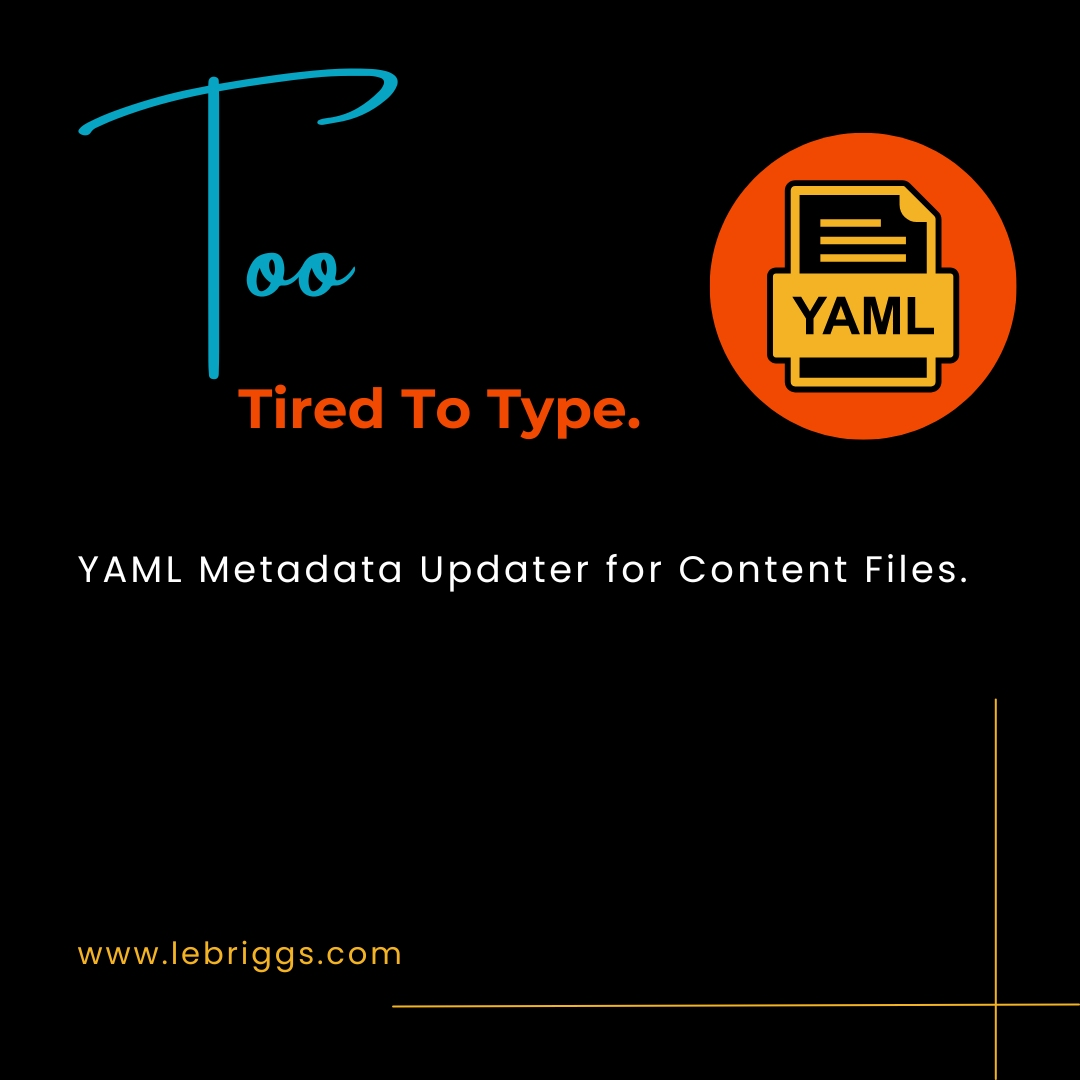
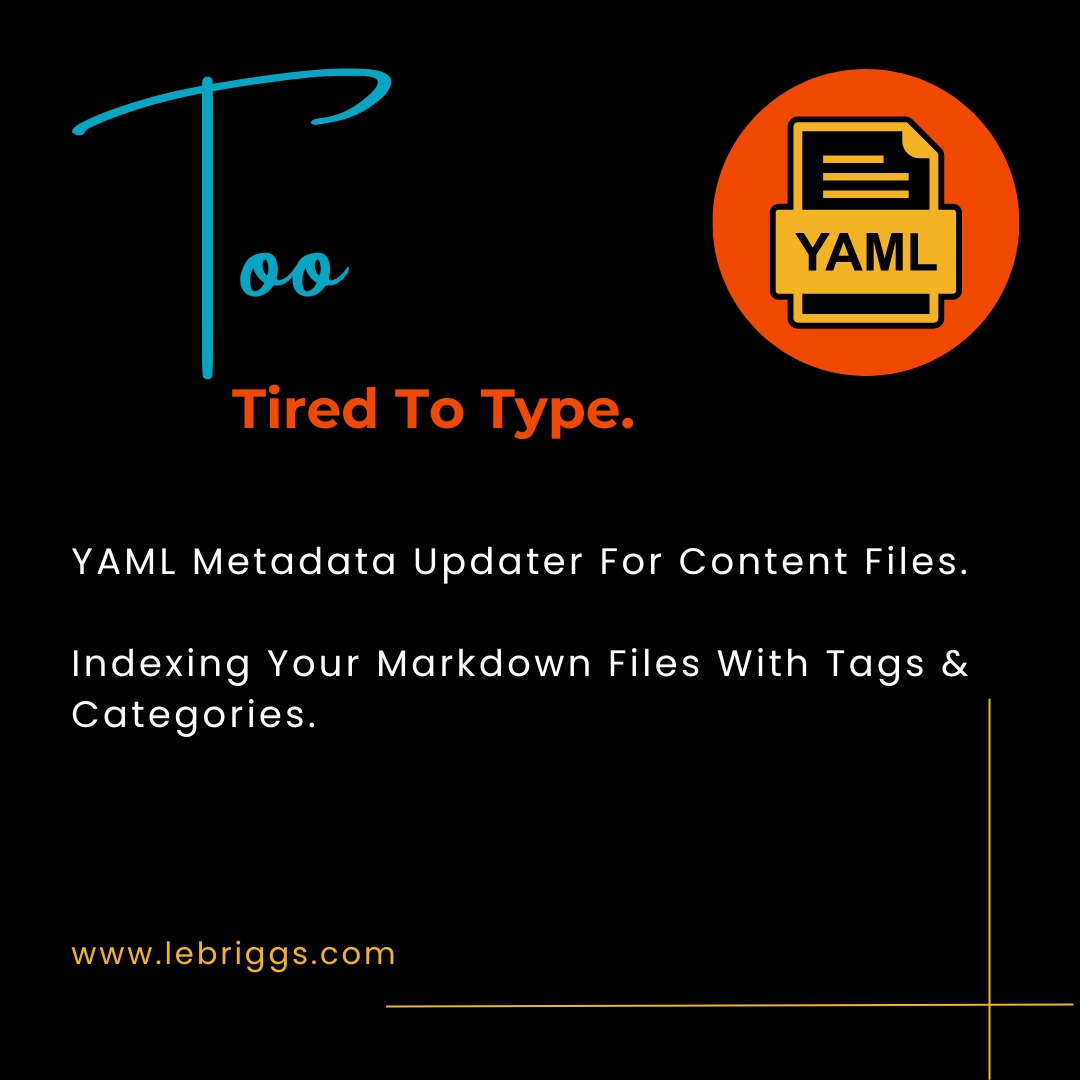
Updated the thumbnail image and added an excerpt for the post.

diff --git a/content/blog/post_index/index.md b/content/blog/post_index/index.md
@@ -6,7 +6,7 @@ show_author_byline: true
 date: "2024-07-13"
 draft: false
 excerpt: |
-  A description goes here.
+  This script automates indexing your Markdown files with tags, categories, and the current date. Perfect for those of us who are too tired to update YAML metadata manually, it handles the tedious work for managing blog posts and other content files!
 layout: single
 links:
 - icon: github-square
